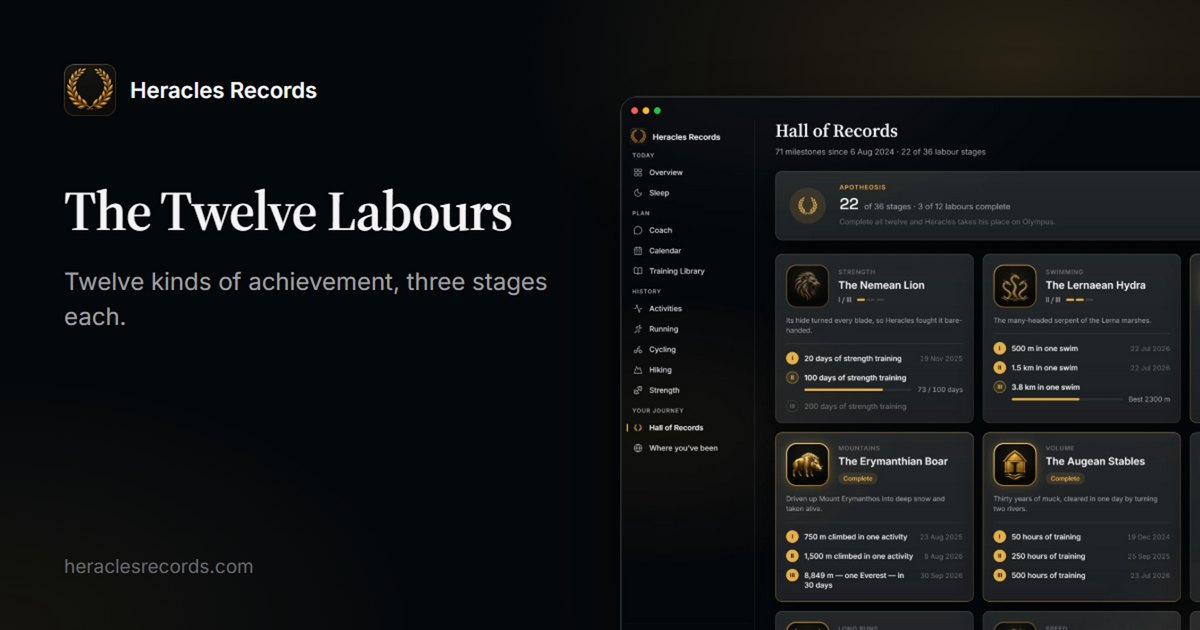
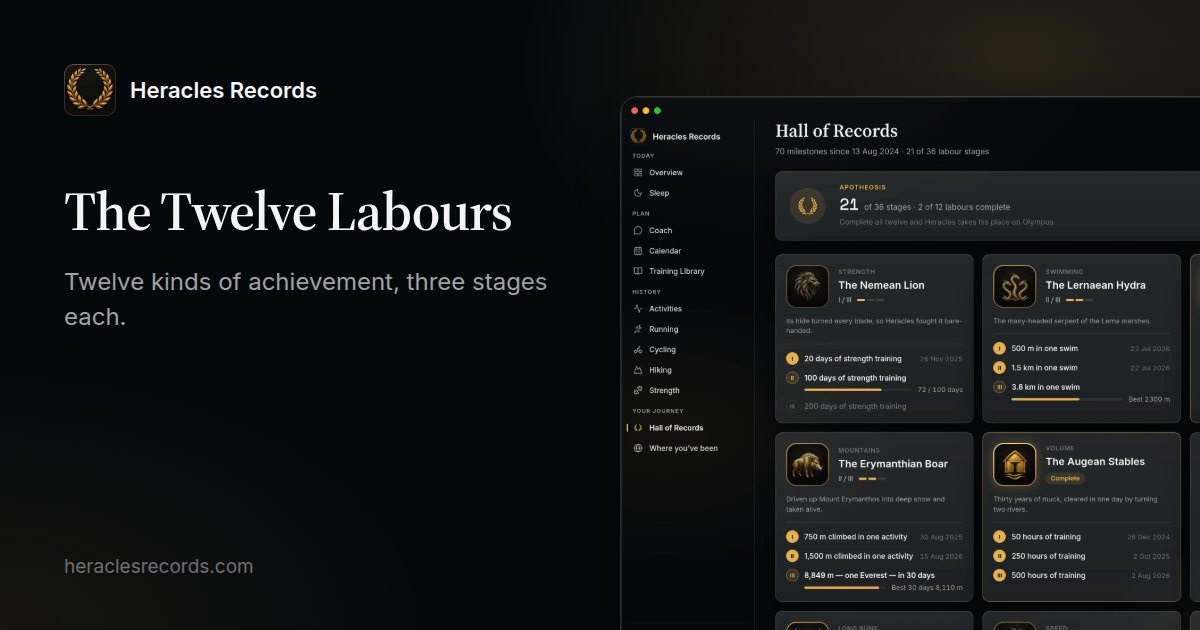
Deploy quochungse/HeraclesRecords@629b0f85e413349f143181261bfd70b6f8ec8a28

diff --git a/index.html b/index.html
@@ -388,19 +388,33 @@
     <div class="grid-2 records" data-astro-cid-lcdefpme>
       <figure class="figure" data-astro-cid-lcdefpme>
         
-<img src="/_astro/14-timeline.D1-CY9Ig_19KVWY.webp" srcset="/_astro/14-timeline.D1-CY9Ig_ZV7hMQ.webp 640w, /_astro/14-timeline.D1-CY9Ig_1mONb1.webp 960w, /_astro/14-timeline.D1-CY9Ig_ZemqsV.webp 1280w, /_astro/14-timeline.D1-CY9Ig_Z2bmGpG.webp 1920w, /_astro/14-timeline.D1-CY9Ig_1PJs6y.webp 2560w, /_astro/14-timeline.D1-CY9Ig_19KVWY.webp 3024w" sizes="(max-width: 760px) calc(100vw - 40px), 530px" alt="Hall of Records: the timeline of milestones" loading="lazy" decoding="async" width="3024" height="1964" class="shot">
+<img src="/_astro/14-timeline.CHGK0FyM_2aAcv6.webp" srcset="/_astro/14-timeline.CHGK0FyM_ZT7CVC.webp 640w, /_astro/14-timeline.CHGK0FyM_1oOs2f.webp 960w, /_astro/14-timeline.CHGK0FyM_LrO4b.webp 1280w, /_astro/14-timeline.CHGK0FyM_Z1axqRz.webp 1920w, /_astro/14-timeline.CHGK0FyM_Z2dCqag.webp 2560w, /_astro/14-timeline.CHGK0FyM_2aAcv6.webp 3024w" sizes="(max-width: 760px) calc(100vw - 40px), 530px" alt="Hall of Records: the timeline of milestones" loading="lazy" decoding="async" width="3024" height="1964" class="shot">
         <figcaption data-astro-cid-lcdefpme>
           <strong data-astro-cid-lcdefpme>Timeline</strong>: every first, record and streak, and the labour stage it reached.
         </figcaption>
       </figure>
       <figure class="figure" data-astro-cid-lcdefpme>
         
-<img src="/_astro/15-places.CMEojdNv_Zy5KXO.webp" srcset="/_astro/15-places.CMEojdNv_OOyOA.webp 640w, /_astro/15-places.CMEojdNv_1V5nUR.webp 960w, /_astro/15-places.CMEojdNv_1R2P32.webp 1280w, /_astro/15-places.CMEojdNv_ZHczn4.webp 1920w, /_astro/15-places.CMEojdNv_Z1Q6uj4.webp 2560w, /_astro/15-places.CMEojdNv_Zy5KXO.webp 3024w" sizes="(max-width: 760px) calc(100vw - 40px), 530px" alt="Where you've been: every place you trained, on a globe" loading="lazy" decoding="async" width="3024" height="1964" class="shot">
+<img src="/_astro/13-labours.BhQwQZ0i_Z1kDvW7.webp" srcset="/_astro/13-labours.BhQwQZ0i_hF2NP.webp 640w, /_astro/13-labours.BhQwQZ0i_Z16QIms.webp 960w, /_astro/13-labours.BhQwQZ0i_1AXEv3.webp 1280w, /_astro/13-labours.BhQwQZ0i_246b51.webp 1920w, /_astro/13-labours.BhQwQZ0i_1eKYoN.webp 2560w, /_astro/13-labours.BhQwQZ0i_Z1kDvW7.webp 3024w" sizes="(max-width: 760px) calc(100vw - 40px), 530px" alt="Hall of Records: the Twelve Labours and the stage reached in each" loading="lazy" decoding="async" width="3024" height="1964" class="shot">
         <figcaption data-astro-cid-lcdefpme>
-          <strong data-astro-cid-lcdefpme>Where you've been</strong>: every place your training has taken you, on a globe.
+          <strong data-astro-cid-lcdefpme>The Twelve Labours</strong>: twelve kinds of achievement, three stages each.
         </figcaption>
       </figure>
     </div>
+  </section>
+
+  <section class="wrap section" data-astro-cid-lcdefpme>
+    <div class="section-head" data-astro-cid-lcdefpme>
+      <p class="eyebrow" data-astro-cid-lcdefpme>Where you've been</p>
+      <h2 class="section-title" data-astro-cid-lcdefpme>Every place your training has taken you.</h2>
+      <p class="lede" data-astro-cid-lcdefpme>
+        A globe beside a list of places. Point at one in the list or on the globe and both
+        follow. Open it to see what you trained there: the sports, the visits by month and
+        every activity.
+      </p>
+    </div>
+    
+<img src="/_astro/15-places.WfAxG26h_Z26rddU.webp" srcset="/_astro/15-places.WfAxG26h_Z1PjlKv.webp 640w, /_astro/15-places.WfAxG26h_ZJ3wEe.webp 960w, /_astro/15-places.WfAxG26h_jGnMV.webp 1280w, /_astro/15-places.WfAxG26h_Z2fy1Ca.webp 1920w, /_astro/15-places.WfAxG26h_1FJcfL.webp 2560w, /_astro/15-places.WfAxG26h_Z26rddU.webp 3024w" sizes="(max-width: 1120px) calc(100vw - 40px), 1080px" alt="Where you've been: every place you trained, on a globe beside a list of places" loading="lazy" decoding="async" width="3024" height="1964" class="shot">
   </section>
 
   <section class="wrap section" data-astro-cid-lcdefpme>

diff --git a/labours.html b/labours.html
@@ -380,9 +380,9 @@
     </div>
     <div class="grid-2" data-astro-cid-4bvh3ovu>
       
-<img src="/_astro/13-labours.BTiHKqdt_Z1qt1qE.webp" srcset="/_astro/13-labours.BTiHKqdt_16vwL6.webp 640w, /_astro/13-labours.BTiHKqdt_Zi1epc.webp 960w, /_astro/13-labours.BTiHKqdt_1v9a1v.webp 1280w, /_astro/13-labours.BTiHKqdt_1XgFAt.webp 1920w, /_astro/13-labours.BTiHKqdt_18VtUg.webp 2560w, /_astro/13-labours.BTiHKqdt_Z1qt1qE.webp 3024w" sizes="(max-width: 760px) calc(100vw - 40px), 530px" alt="Hall of Records: the Twelve Labours" loading="lazy" decoding="async" width="3024" height="1964" class="shot">
+<img src="/_astro/13-labours.BhQwQZ0i_Z1kDvW7.webp" srcset="/_astro/13-labours.BhQwQZ0i_hF2NP.webp 640w, /_astro/13-labours.BhQwQZ0i_Z16QIms.webp 960w, /_astro/13-labours.BhQwQZ0i_1AXEv3.webp 1280w, /_astro/13-labours.BhQwQZ0i_246b51.webp 1920w, /_astro/13-labours.BhQwQZ0i_1eKYoN.webp 2560w, /_astro/13-labours.BhQwQZ0i_Z1kDvW7.webp 3024w" sizes="(max-width: 760px) calc(100vw - 40px), 530px" alt="Hall of Records: the Twelve Labours" loading="lazy" decoding="async" width="3024" height="1964" class="shot">
       
-<img src="/_astro/14-timeline.D1-CY9Ig_19KVWY.webp" srcset="/_astro/14-timeline.D1-CY9Ig_ZV7hMQ.webp 640w, /_astro/14-timeline.D1-CY9Ig_1mONb1.webp 960w, /_astro/14-timeline.D1-CY9Ig_ZemqsV.webp 1280w, /_astro/14-timeline.D1-CY9Ig_Z2bmGpG.webp 1920w, /_astro/14-timeline.D1-CY9Ig_1PJs6y.webp 2560w, /_astro/14-timeline.D1-CY9Ig_19KVWY.webp 3024w" sizes="(max-width: 760px) calc(100vw - 40px), 530px" alt="Hall of Records: the timeline of milestones" loading="lazy" decoding="async" width="3024" height="1964" class="shot">
+<img src="/_astro/14-timeline.CHGK0FyM_2aAcv6.webp" srcset="/_astro/14-timeline.CHGK0FyM_ZT7CVC.webp 640w, /_astro/14-timeline.CHGK0FyM_1oOs2f.webp 960w, /_astro/14-timeline.CHGK0FyM_LrO4b.webp 1280w, /_astro/14-timeline.CHGK0FyM_Z1axqRz.webp 1920w, /_astro/14-timeline.CHGK0FyM_Z2dCqag.webp 2560w, /_astro/14-timeline.CHGK0FyM_2aAcv6.webp 3024w" sizes="(max-width: 760px) calc(100vw - 40px), 530px" alt="Hall of Records: the timeline of milestones" loading="lazy" decoding="async" width="3024" height="1964" class="shot">
     </div>
   </section>
 
